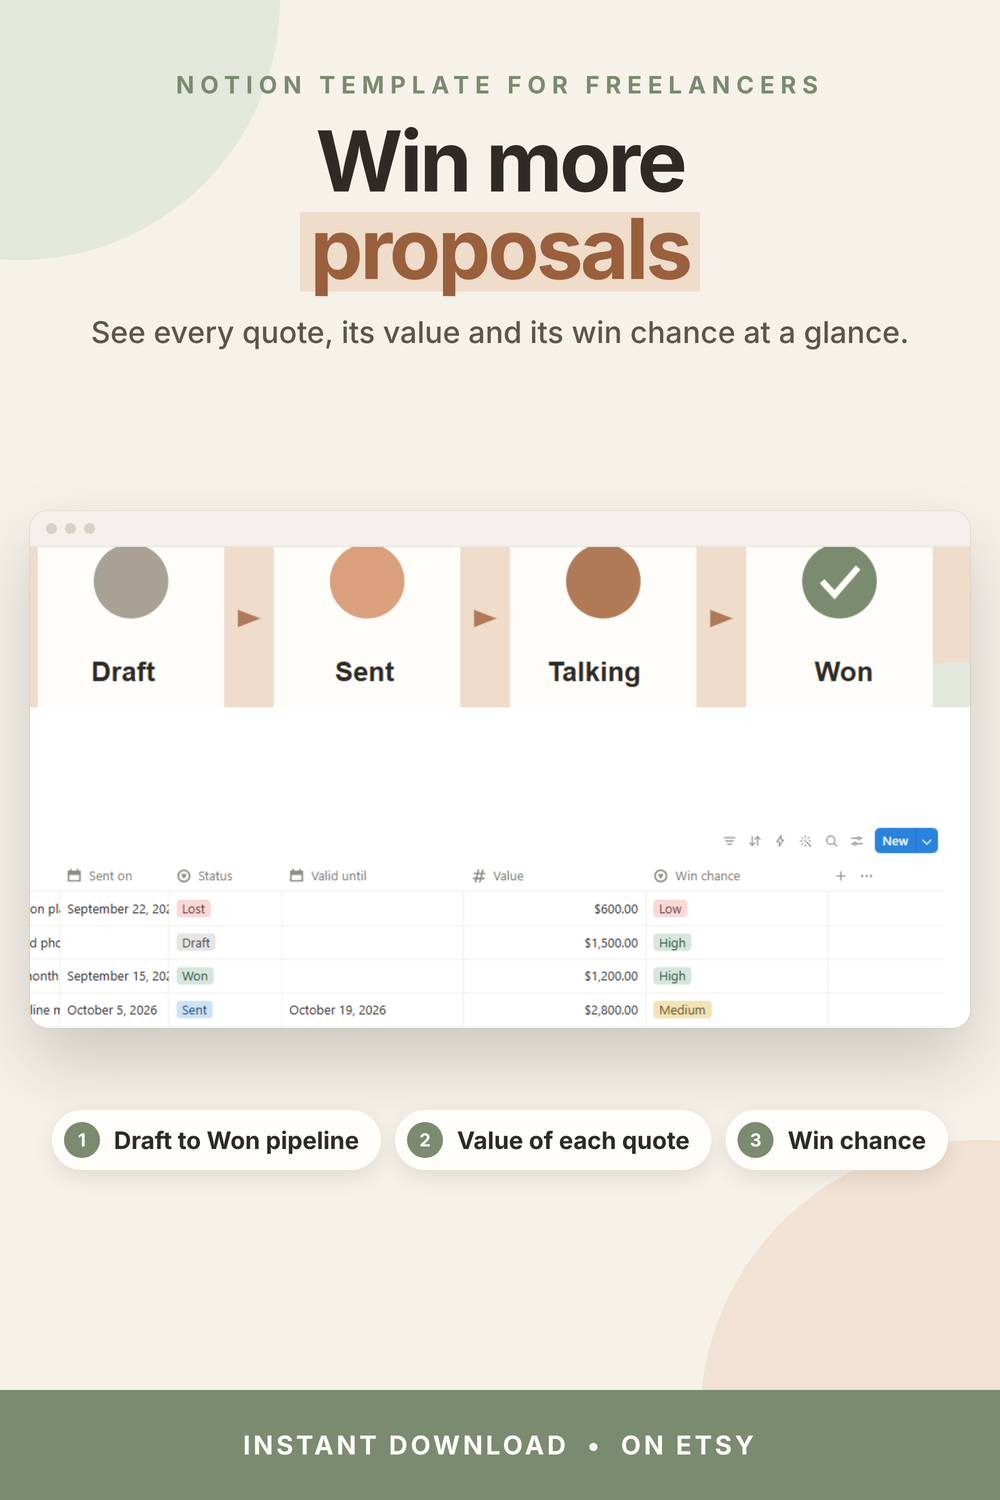
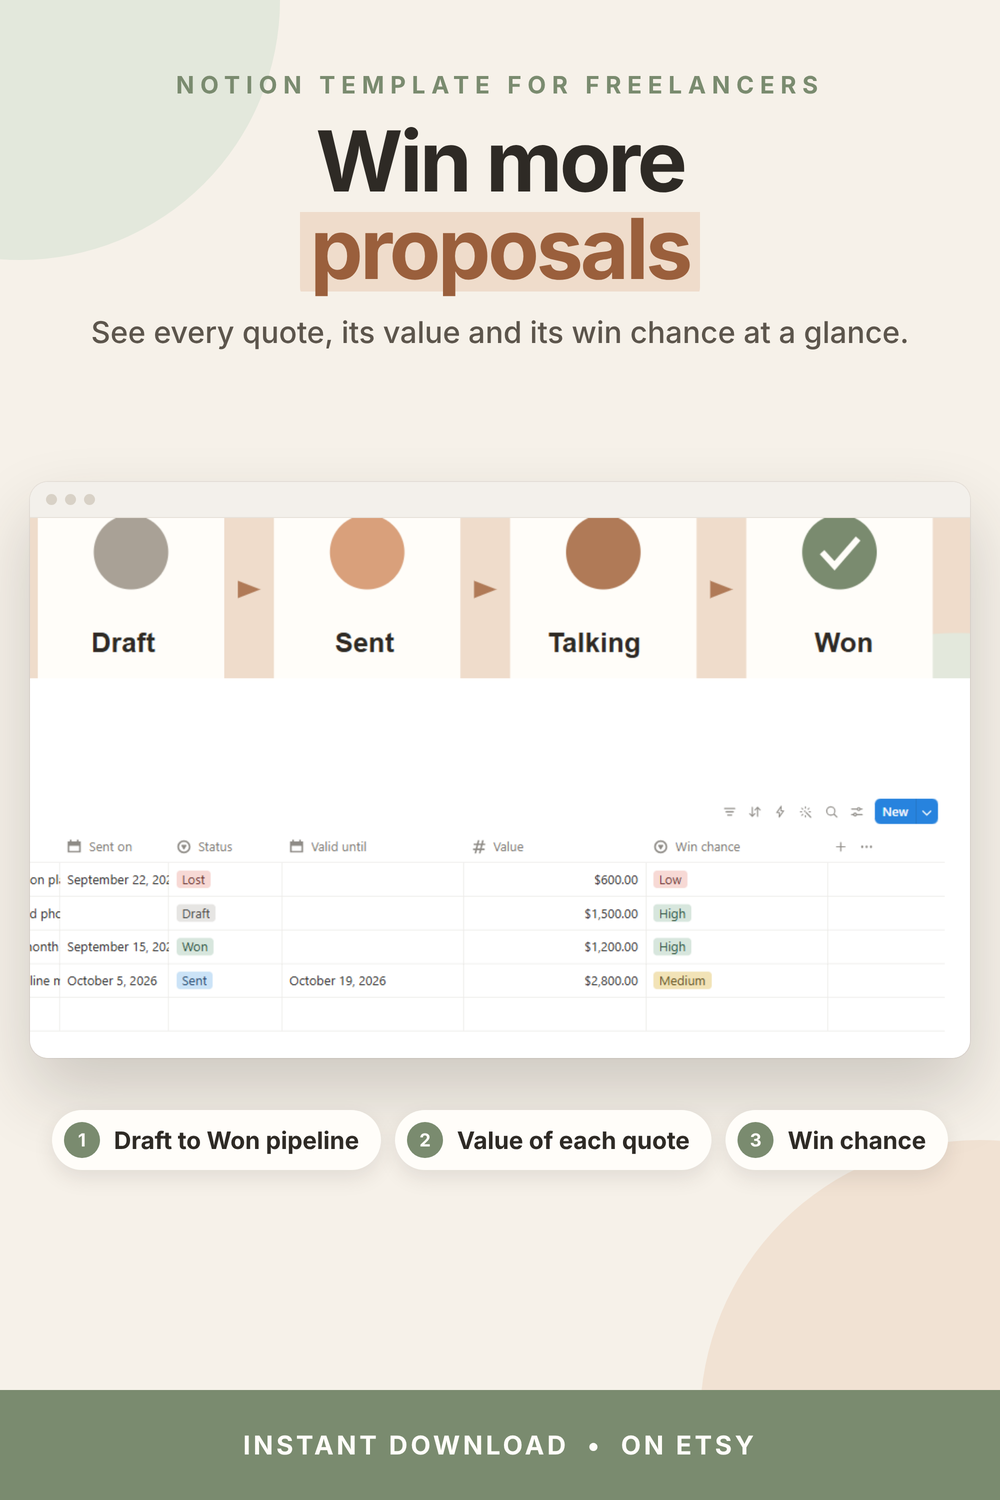
Etsy pins: bigger readable screenshots (pin_crop zoom), chips match what shows; rebuild 36
Claude-Session: https://claude.ai/code/session_01SESvdWYowsCKTnCuHXDcbL

diff --git a/generator/styles/etsy_pins.py b/generator/styles/etsy_pins.py
@@ -73,15 +73,33 @@ def hero_pin(pr, tmp):
     return page(body)
 
 
+def pin_box(f, aspect=1.62):
+    """A taller box for the vertical pin: 'pin_crop' if set, else the listing crop grown up/down to ~16:10
+    (the listing crops are thin strips, which look tiny on a 2:3 pin)."""
+    if f.get('pin_crop'):
+        return f['pin_crop']
+    x0, y0, x1, y1 = f['crop']
+    W0, H0 = Image.open(os.path.join(ROOT, f['shot'])).size
+    want = round((x1 - x0) / aspect)
+    if y1 - y0 >= want:
+        return [x0, y0, x1, y1]
+    cy = (y0 + y1) / 2
+    top = max(0, min(round(cy - want / 2), H0 - want))
+    return [x0, top, x1, min(H0, top + want)]
+
+
 def feature_pin(pr, f, tmp, n):
-    path, (cw, ch), _ = crop(f['shot'], f['crop'], tmp, f'pf{n}', trim=True)
-    sc = min(940 / cw, 640 / ch, 2.0)
+    path, (cw, ch), _ = crop(f['shot'], pin_box(f), tmp, f'pf{n}', trim=True)
+    # zoom on the key columns ('pin_crop' in etsy-spec.json) so the screen is big and readable
+    # big enough to read: ~470 px tall; a wide table bleeds off the right edge (chips name only what shows)
+    sc = min(470 / ch, 1.6) if cw / ch > 2.0 else min(940 / cw, 600 / ch, 1.6)
     w, h = round(cw * sc), round(ch * sc)
+    x0 = (W - w) // 2 if w <= 940 else 50
     y0 = 440 + (660 - (h + 36)) // 2
     a, b = f['title']
-    chips = ''.join(f'<div class="chip"><span class="n">{i + 1}</span>{c}</div>' for i, c in enumerate(f['chips'][:3]))
+    chips = ''.join(f'<div class="chip"><span class="n">{i + 1}</span>{c}</div>' for i, c in enumerate(f.get('pin_chips', f['chips'])[:3]))
     body = (f'<div class="top"><div class="k0">{pr["kicker"]}</div><h1>{a}<br><em>{b}</em></h1><div class="sub">{f["sub"]}</div></div>'
-            + card(path, (W - w) // 2, y0, w, h)
+            + card(path, x0, y0, w, h)
             + f'<div class="chips" style="top:1110px;flex-direction:row;flex-wrap:wrap;justify-content:center">{chips}</div>')
     return page(body, '.chip{font-size:24px;padding:12px 22px 12px 12px}.n{width:36px;height:36px;font-size:18px}.name{display:none}')
 
